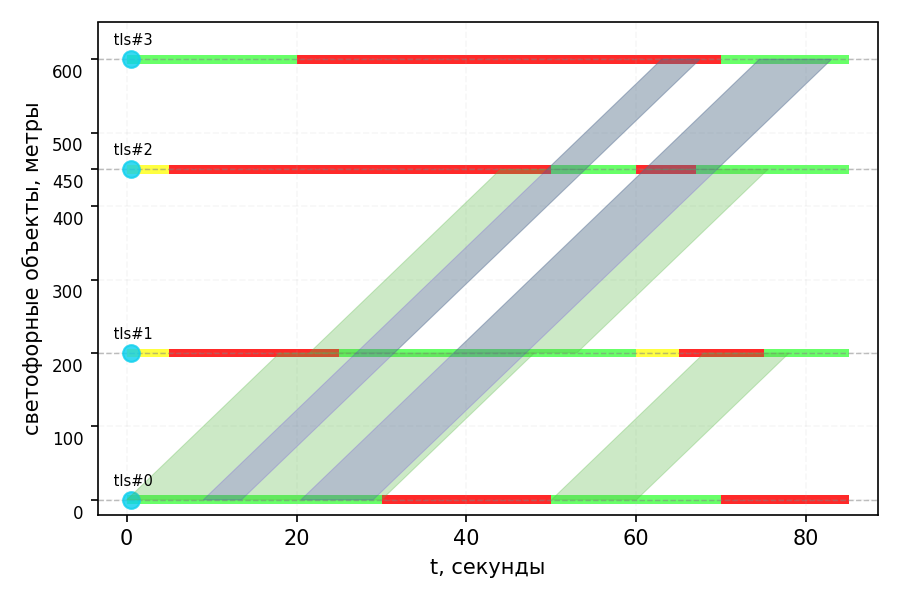
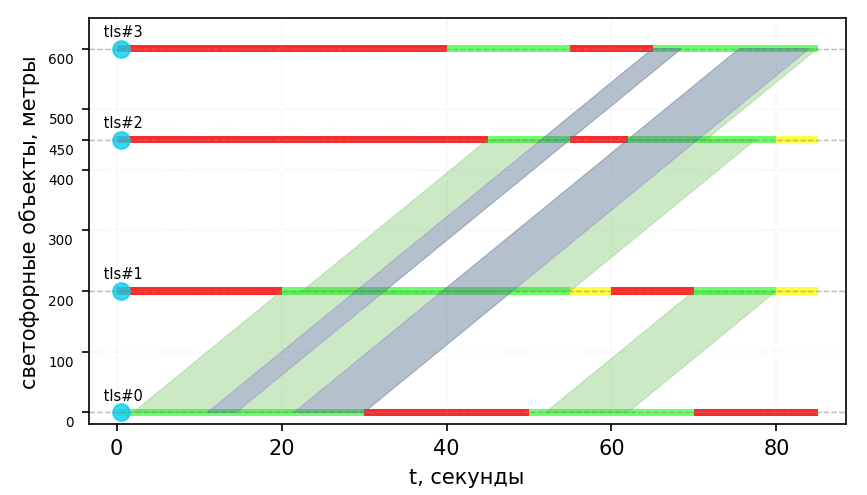
Изменения

diff --git a/code/main.py b/code/main.py
@@ -39,7 +39,7 @@ def main():
     ]
     
 # установка точных оффсетов
-    offsets = [0, -2 ,-4.5, 0]
+    offsets = [0, 0 ,0, 0]
     for i, offset in enumerate(offsets):
         junctions[i].set_offset(offset)
 
